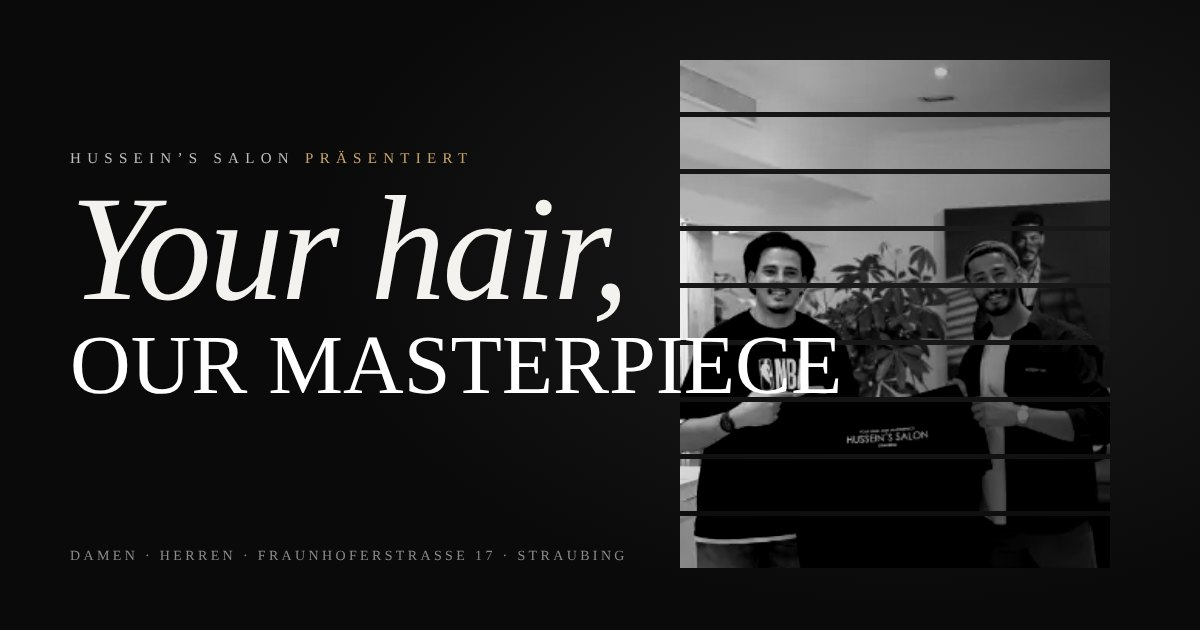
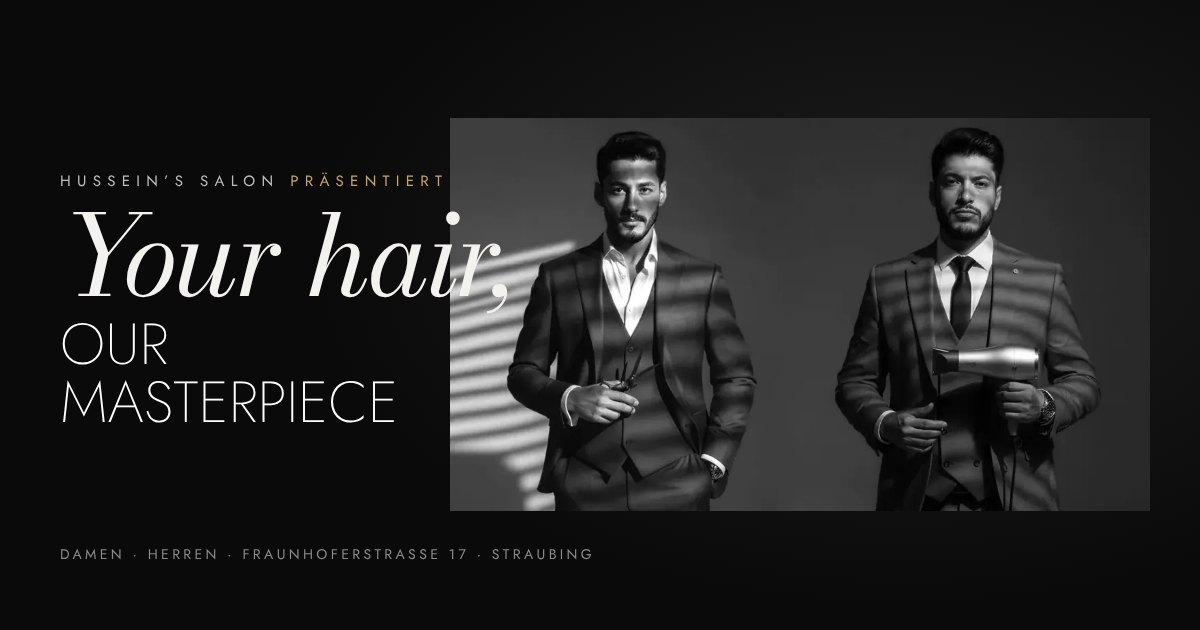
Hero: Inhaber-Foto mit Schere und Föhn, ohne Filter und Lamellen
- Foto aus Screenshot ausgeschnitten, Querformat, Text daneben (Desktop) bzw. darunter (Handy)
- Team: Porträts beider Inhaber aus dem Foto
- Open-Graph-Bild mit neuem Foto

Claude-Session: https://claude.ai/code/session_016X1x9sLRMy6sJv4NoQqEvx

diff --git a/index.html b/index.html
@@ -113,9 +113,9 @@
   <div class="hero__streifen" aria-hidden="true"></div>
   <div class="buehne">
     <span class="rahmen-nr" aria-hidden="true">Szene 01 — Fraunhoferstraße</span>
-    <div class="lamellen" data-lamellen-hero>
-      <div class="lamellen__bild">
-        <picture data-bild="inhaber-duo" data-alt="Die beiden Inhaber von Hussein’s Salon im Salon, rechts Hussein, mit einem Salon-Shirt in den Händen" data-sizes="(min-width: 900px) 470px, 82vw" data-laden="sofort" data-img-klasse="sw"><source type="image/avif" srcset="bilder/inhaber-duo-278.avif 278w" sizes="(min-width: 900px) 470px, 82vw"><source type="image/webp" srcset="bilder/inhaber-duo-278.webp 278w" sizes="(min-width: 900px) 470px, 82vw"><img src="bilder/inhaber-duo-278.webp" width="278" height="332" alt="Die beiden Inhaber von Hussein’s Salon im Salon, rechts Hussein, mit einem Salon-Shirt in den Händen" fetchpriority="high" decoding="async" class="sw"></picture>
+    <div class="hero__foto" data-hero-foto>
+      <div class="hero__foto-innen">
+        <picture data-bild="inhaber-hero" data-alt="Die beiden Inhaber von Hussein’s Salon im dreiteiligen Anzug, links mit Schere, rechts Hussein mit Föhn, im Streifenlicht einer Jalousie" data-sizes="(min-width: 900px) 64vw, 100vw" data-laden="sofort"><source type="image/avif" srcset="bilder/inhaber-hero-480.avif 480w, bilder/inhaber-hero-800.avif 800w, bilder/inhaber-hero-1027.avif 1027w" sizes="(min-width: 900px) 64vw, 100vw"><source type="image/webp" srcset="bilder/inhaber-hero-480.webp 480w, bilder/inhaber-hero-800.webp 800w, bilder/inhaber-hero-1027.webp 1027w" sizes="(min-width: 900px) 64vw, 100vw"><img src="bilder/inhaber-hero-800.webp" width="1027" height="577" alt="Die beiden Inhaber von Hussein’s Salon im dreiteiligen Anzug, links mit Schere, rechts Hussein mit Föhn, im Streifenlicht einer Jalousie" fetchpriority="high" decoding="async"></picture>
       </div>
     </div>
     <div class="titel">
@@ -250,12 +250,12 @@
   </header>
   <ul class="besetzung">
     <li class="person">
-      <div class="person__bild platzhalter" role="img" aria-label="Platzhalter: Porträt folgt"><span>Porträt<br>[Name]</span></div>
+      <div class="person__bild"><picture data-bild="team-inhaber-links" data-alt="Inhaber [Name] im dreiteiligen Anzug mit Schere" data-sizes="(min-width: 1200px) 24vw, (min-width: 600px) 45vw, 88vw" data-img-klasse="sw"><source type="image/avif" srcset="bilder/team-inhaber-links-460.avif 460w" sizes="(min-width: 1200px) 24vw, (min-width: 600px) 45vw, 88vw"><source type="image/webp" srcset="bilder/team-inhaber-links-460.webp 460w" sizes="(min-width: 1200px) 24vw, (min-width: 600px) 45vw, 88vw"><img src="bilder/team-inhaber-links-460.webp" width="460" height="575" alt="Inhaber [Name] im dreiteiligen Anzug mit Schere" loading="lazy" decoding="async" class="sw"></picture></div>
       <p class="person__rolle">Inhaber · Herren &amp; Damen</p>
       <p class="person__name">[Vorname <em class="serif">Nachname</em>]</p>
     </li>
     <li class="person">
-      <div class="person__bild platzhalter" role="img" aria-label="Platzhalter: Porträt von Hussein folgt"><span>Porträt<br>Hussein</span></div>
+      <div class="person__bild"><picture data-bild="team-hussein" data-alt="Inhaber Hussein im dreiteiligen Anzug mit Föhn" data-sizes="(min-width: 1200px) 24vw, (min-width: 600px) 45vw, 88vw" data-img-klasse="sw"><source type="image/avif" srcset="bilder/team-hussein-460.avif 460w" sizes="(min-width: 1200px) 24vw, (min-width: 600px) 45vw, 88vw"><source type="image/webp" srcset="bilder/team-hussein-460.webp 460w" sizes="(min-width: 1200px) 24vw, (min-width: 600px) 45vw, 88vw"><img src="bilder/team-hussein-460.webp" width="460" height="575" alt="Inhaber Hussein im dreiteiligen Anzug mit Föhn" loading="lazy" decoding="async" class="sw"></picture></div>
       <p class="person__rolle">Inhaber · Herren &amp; Damen</p>
       <p class="person__name"><em class="serif">Hussein</em> [Nachname]</p>
     </li>

diff --git a/css/seite.css b/css/seite.css
@@ -131,21 +131,15 @@ section { position: relative; }
   animation: streifen 22s linear infinite;
 }
 @keyframes streifen { to { transform: translate3d(0, 74px, 0); } }
-.buehne { position: relative; display: grid; align-items: end; margin-bottom: 8px; }
-.lamellen {
-  position: relative; width: 82vw; max-width: 470px; aspect-ratio: 278 / 332; justify-self: end; margin-right: -4vw;
-  -webkit-mask: repeating-linear-gradient(180deg, #000 0 calc(11.11% - 5px), transparent calc(11.11% - 5px) 11.11%);
-          mask: repeating-linear-gradient(180deg, #000 0 calc(11.11% - 5px), transparent calc(11.11% - 5px) 11.11%);
+.buehne { position: relative; display: grid; align-content: start; margin-bottom: 8px; }
+.hero__foto {
+  position: relative; width: calc(100% + 2 * var(--rand)); margin: 0 calc(-1 * var(--rand)); aspect-ratio: 1027 / 577; overflow: hidden;
 }
-.lamellen__bild { position: absolute; inset: -8% 0; }
-.lamellen__bild picture, .lamellen__bild img { width: 100%; height: 100%; }
-.lamellen__bild img { object-fit: cover; }
-.lamellen::after {
-  content: ""; position: absolute; inset: 0; mix-blend-mode: multiply; pointer-events: none;
-  background: linear-gradient(115deg, #fff 20%, rgba(0,0,0,.55) 78%);
-}
+.hero__foto-innen { position: absolute; inset: -6% 0; }
+.hero__foto-innen picture, .hero__foto-innen img { width: 100%; height: 100%; }
+.hero__foto-innen img { object-fit: cover; }
 .rahmen-nr { display: none; }
-.titel { position: absolute; left: 0; right: 0; bottom: -6px; z-index: 3; pointer-events: none; }
+.titel { position: relative; z-index: 3; margin-top: 26px; pointer-events: none; }
 .titel__vor { margin: 0 0 10px; font-size: 11px; letter-spacing: .42em; text-transform: uppercase; color: var(--grau-3); text-shadow: 0 0 14px #000; }
 .titel__vor span { color: var(--messing-hell); }
 .hero h1 { margin: 0; line-height: .86; font-weight: 200; }
@@ -400,10 +394,12 @@ section { position: relative; }
   .kopf__nav { display: flex; }
   .menue-knopf { display: none; }
   .hero { padding-top: calc(110px + var(--sicher-oben)); }
-  .buehne { align-items: center; }
-  .lamellen { width: min(34vw, 470px); margin-right: 6vw; }
+  .buehne { grid-template-columns: 36fr 64fr; align-items: center; align-content: center; }
+  .hero__foto { grid-column: 2; grid-row: 1; width: 100%; margin: 0; }
   .rahmen-nr { display: block; position: absolute; right: 6vw; top: 0; font-size: 10px; letter-spacing: .3em; color: var(--grau-5); text-transform: uppercase; }
-  .titel { top: 50%; bottom: auto; transform: translateY(-46%); }
+  .titel { grid-column: 1; grid-row: 1; margin: 0 -4vw 0 0; }
+  .titel__a { font-size: clamp(64px, 8.2vw, 170px); }
+  .titel__b { font-size: clamp(34px, 5vw, 104px); white-space: normal; line-height: .95; margin-top: .12em; }
   .hero__weiter {
     display: flex; flex-direction: column; align-items: center; gap: 10px; position: absolute; left: 50%; bottom: calc(26px + var(--sicher-unten));
     transform: translateX(-50%); z-index: 6; text-decoration: none; font-size: 10px; letter-spacing: .3em; text-transform: uppercase; color: var(--grau-5);

diff --git a/js/haupt.js b/js/haupt.js
@@ -141,19 +141,18 @@ function hero(verzoegerung) {
   const h = $(".hero");
   if (!h) return;
   $$("[data-teilen]", h).forEach((el) => teilen(el, "zeichen"));
-  const box = $("[data-lamellen-hero]", h);
-  const deckel = lamellenDeckel(box, 9);
+  const foto = $("[data-hero-foto]", h);
   const tl = gsap.timeline({ delay: verzoegerung + 0.1, defaults: { ease: "power4.out" } });
   tl.set($("h1", h), { opacity: 1 })
-    .to($$("i", deckel), { scaleY: 0, duration: 0.9, stagger: 0.06, ease: "power3.inOut" }, 0)
-    .from($(".lamellen__bild", h), { scale: 1.25, duration: 1.8, ease: "power3.out" }, 0)
+    .fromTo(foto, { clipPath: "inset(0 0 100% 0)" }, { clipPath: "inset(0 0 0% 0)", duration: 1.1, ease: "power4.inOut" }, 0)
+    .from($(".hero__foto-innen", h), { scale: 1.15, duration: 1.8, ease: "power3.out" }, 0)
     .from($$(".titel__a .teil", h), { yPercent: 115, rotate: 8, duration: 1.2, stagger: 0.04 }, 0.15)
     .from($$(".titel__b .teil", h), { yPercent: 115, duration: 1, stagger: 0.025 }, 0.45)
     .fromTo($(".titel__vor", h), { autoAlpha: 0, x: -20 }, { autoAlpha: 1, x: 0, duration: 0.8 }, 0.4)
     .fromTo($(".hero__unten", h), { autoAlpha: 0, y: 24 }, { autoAlpha: 1, y: 0, duration: 0.9 }, 0.8);
 
   /* Parallax */
-  gsap.to($(".lamellen__bild", h), { yPercent: 9, ease: "none", scrollTrigger: { trigger: h, start: "top top", end: "bottom top", scrub: true } });
+  gsap.to($(".hero__foto-innen", h), { yPercent: 6, ease: "none", scrollTrigger: { trigger: h, start: "top top", end: "bottom top", scrub: true } });
   gsap.to($(".titel", h), { y: () => -innerHeight * 0.12, ease: "none", scrollTrigger: { trigger: h, start: "top top", end: "bottom top", scrub: true } });
 }
 

diff --git a/PLATZHALTER.md b/PLATZHALTER.md
@@ -13,8 +13,7 @@ Alle Platzhalter stehen im Code in eckigen Klammern `[…]` – mit `grep -rn "\
 
 ## Fotos (`bilder/original/`, danach `python3 tools/bilder.py`)
 Die jetzigen Bilder sind Ausschnitte aus Instagram-Screenshots (≈ 280 px breit) und nur Platzhalter.
-- [ ] **Doppelporträt der Inhaber** im dreiteiligen Anzug, mit Schere/Föhn, hart beleuchtet (Hochformat 4:5, ≥ 2000 px) → Dateiname `inhaber-duo.jpg`
-- [ ] **Einzelporträts** beider Inhaber (4:5) → dann im Team die zwei `platzhalter`-Flächen durch `<picture data-bild="…">` ersetzen
+- [ ] **Doppelporträt der Inhaber** (Anzug, Schere/Föhn) ist eingebaut, stammt aber aus einem Handy-Screenshot (1027 px breit). Bitte die **Originaldatei** schicken → als `bilder/original/inhaber-hero.jpg` ablegen (alte `.png` löschen); die Team-Porträts `team-inhaber-links` / `team-hussein` sind Ausschnitte daraus und können ebenso ersetzt werden
 - [ ] **10–15 Arbeiten** in hoher Auflösung (gleiche Dateinamen wie jetzt überschreiben = keine HTML-Änderung nötig)
 - [ ] Einverständnis der abgebildeten Kundinnen und Kunden zur Veröffentlichung (DSGVO/KUG)
 - [ ] Logo als Vektor (SVG/PDF), falls das nachgesetzte Jost-Logo ersetzt werden soll
